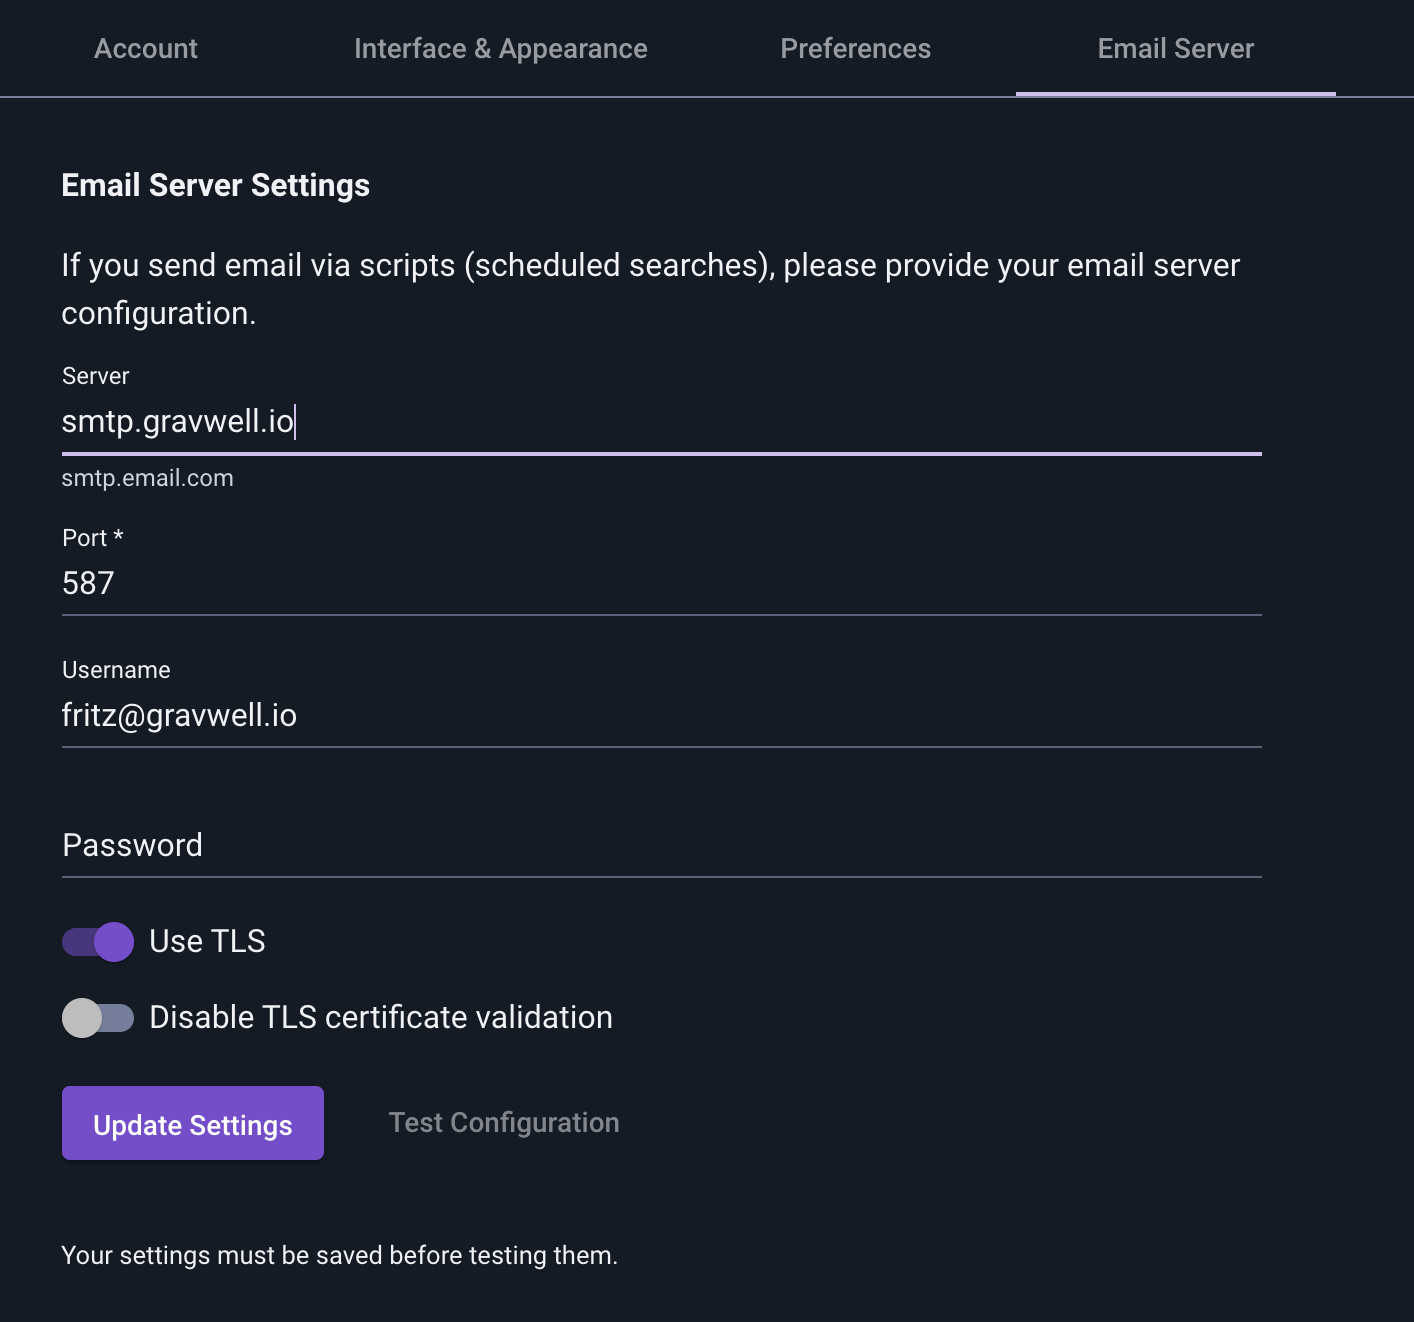
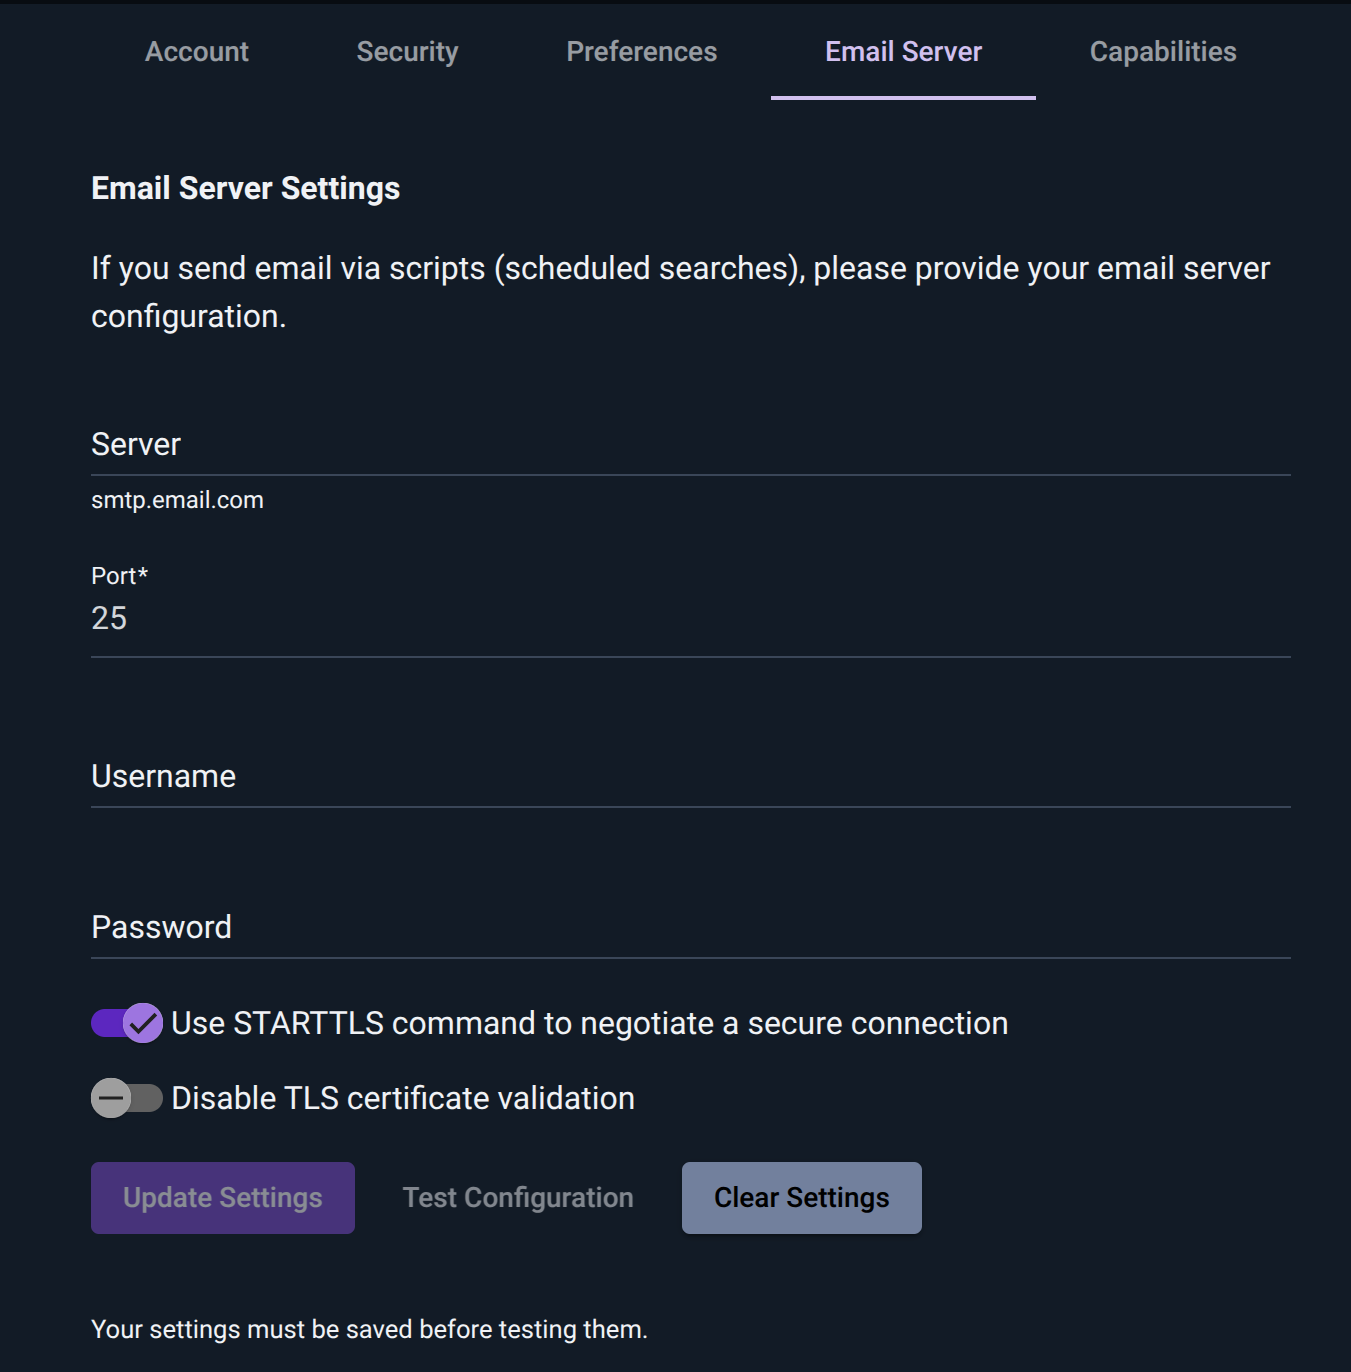
Update TLS language for email configuration

diff --git a/configuration/email.md b/configuration/email.md
@@ -8,7 +8,7 @@ Users can configure their own SMTP server by first visiting their <a href="/conf
 
 ![](email-prefs.png)
 
-The fields are mostly self-explanatory: "Server" is an SMTP server, "Port" is the port to use for SMTP, "Username" and "Password" authenticate to that server. Setting "Use TLS" will cause Gravwell to send a STARTTLS command before authenticating. The "Disable TLS certificate validation" option is provided in case the server is using self-signed certificates; be cautious enabling this!
+The fields are mostly self-explanatory: "Server" is an SMTP server, "Port" is the port to use for SMTP, "Username" and "Password" authenticate to that server. Setting "Use STARTTLS command to negotiate a secure connection" will cause Gravwell to send a STARTTLS command before authenticating. The "Disable TLS certificate validation" option is provided in case the server is using self-signed certificates; be cautious enabling this!
 
 ```{note}
 If your email server doesn't require authentication, leave `Username` and `Password` blank.
